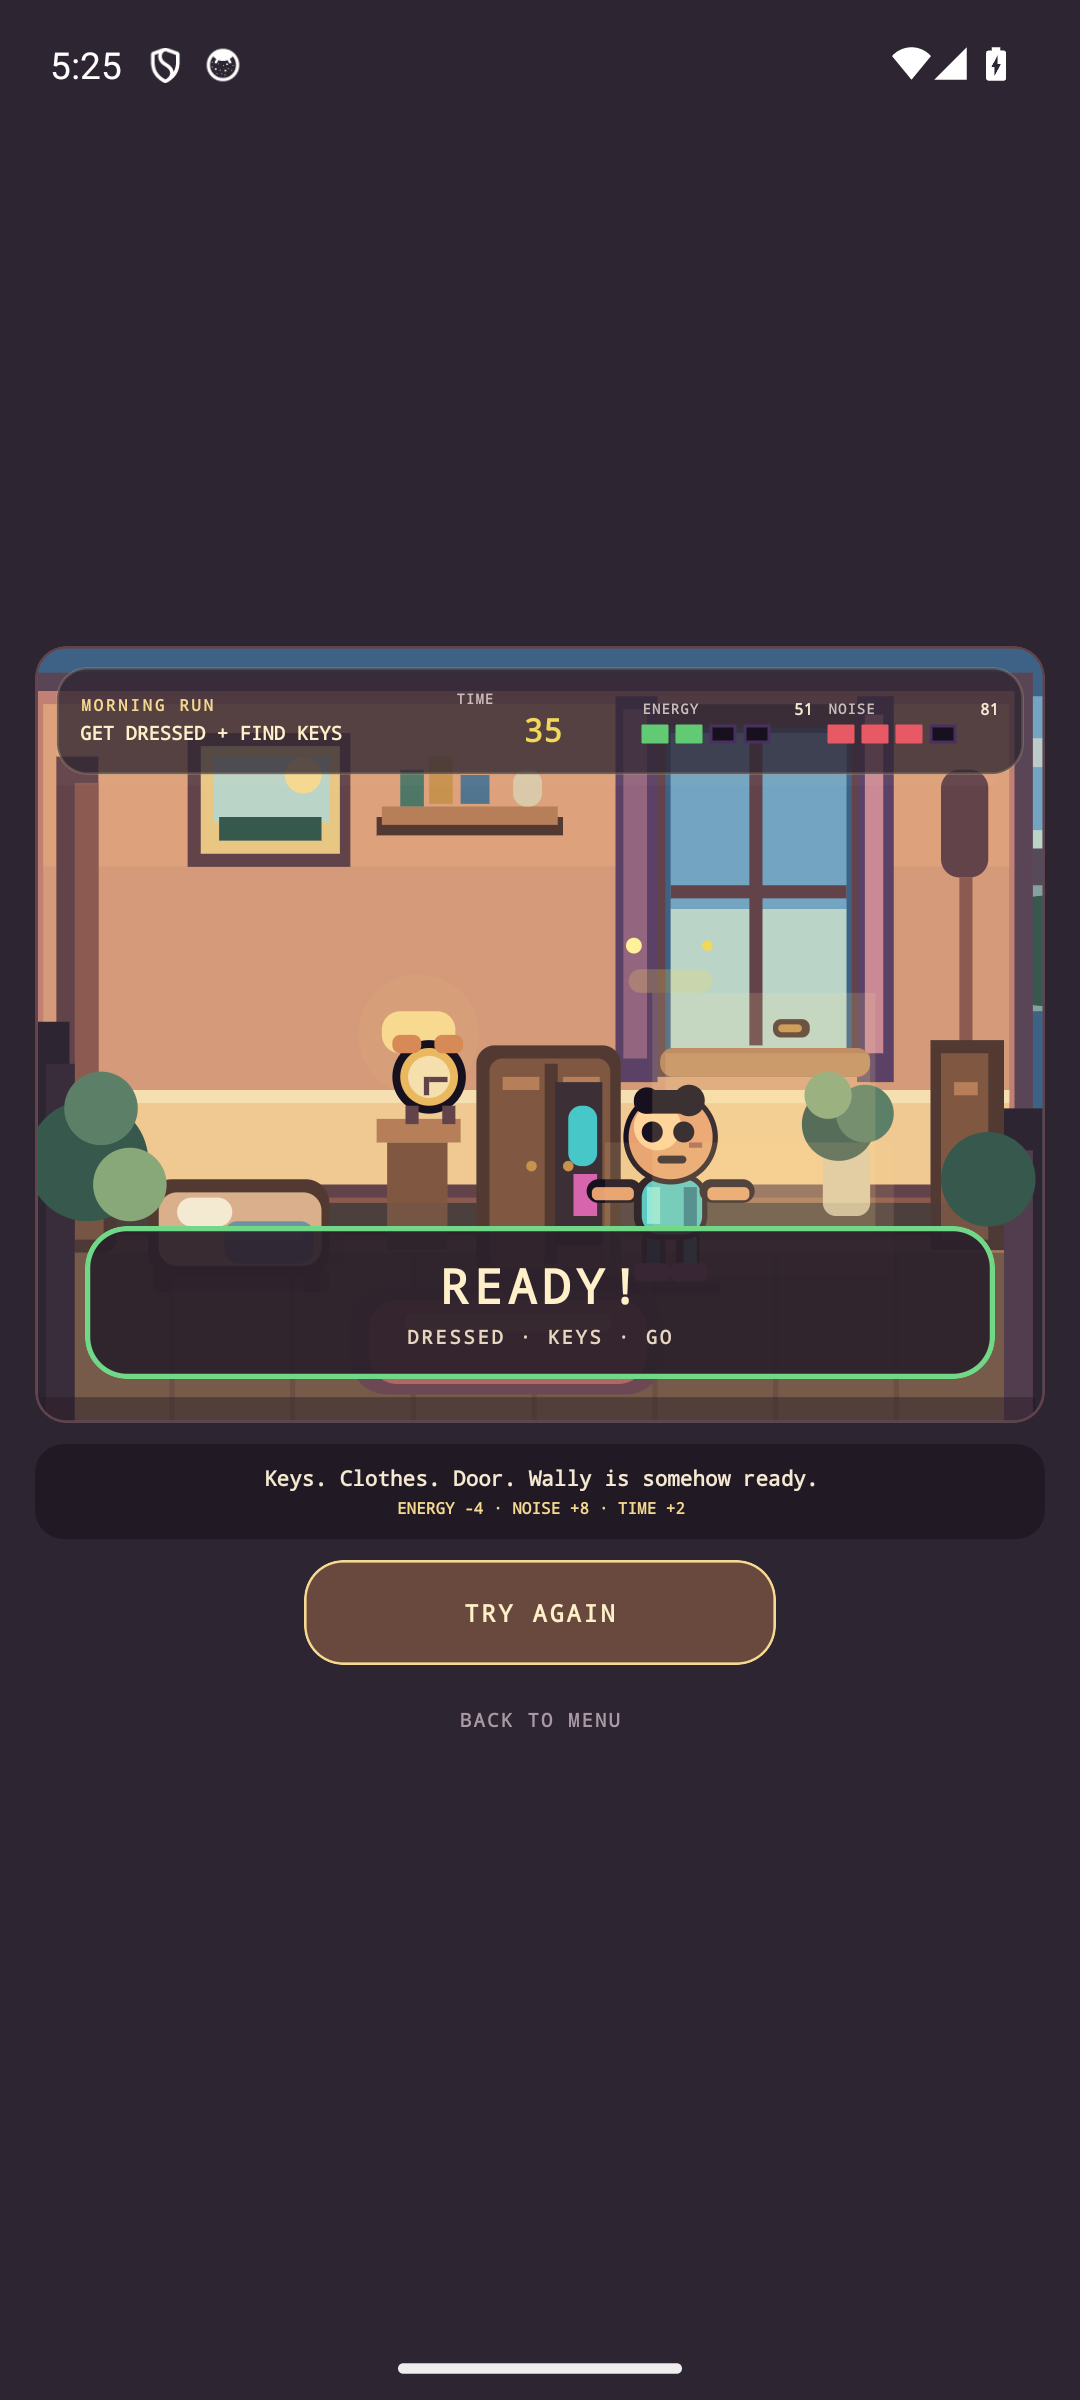
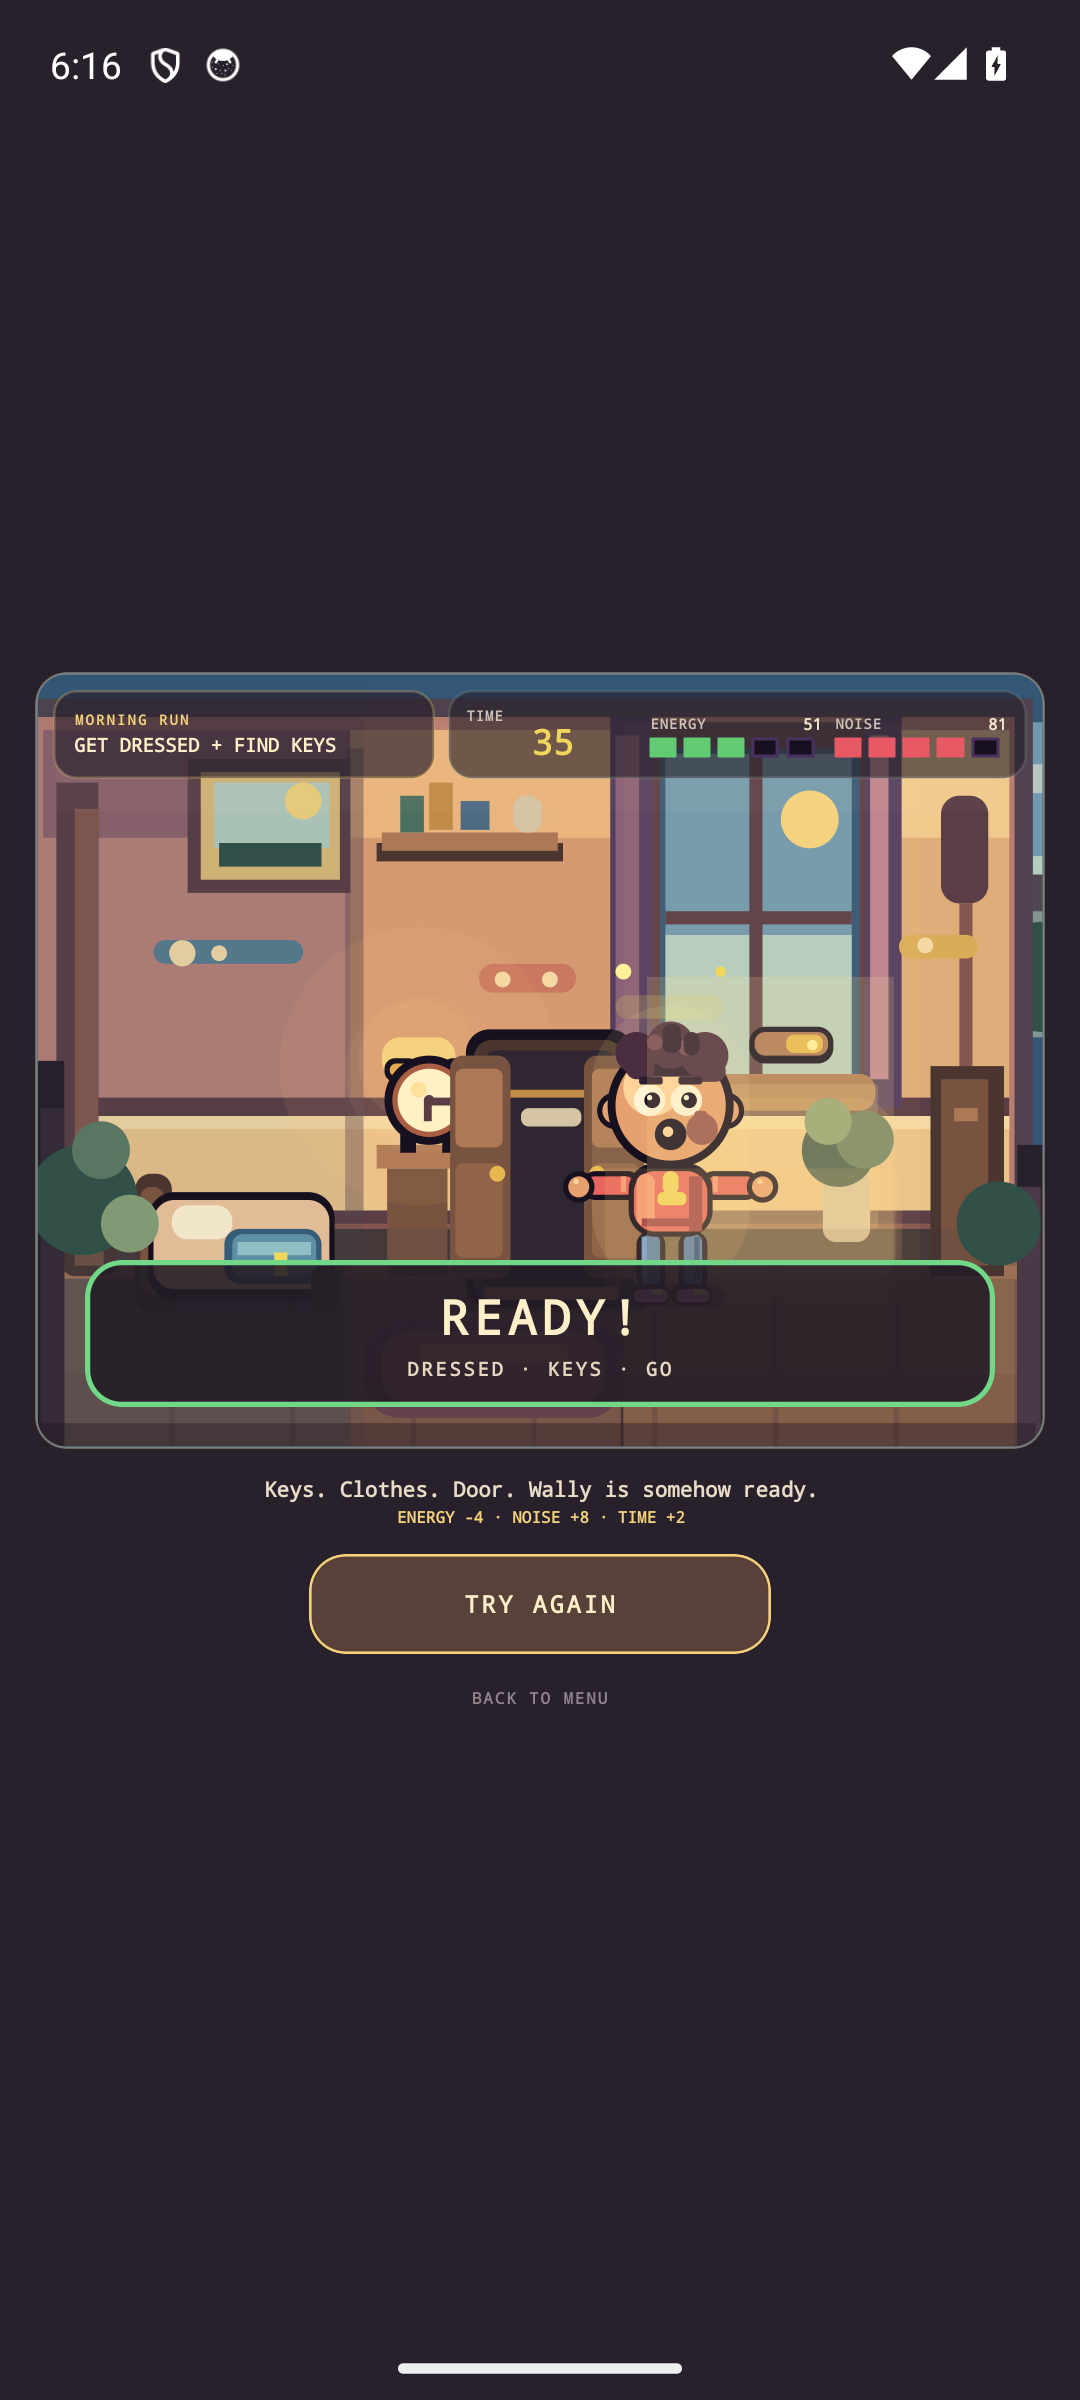
docs: refresh README screenshot gallery

Changed region(s): [[0.0306, 0.25, 0.9778, 0.7188], [0.7028, 0.6562, 0.7333, 0.6875], [0.275, 0.6562, 0.3056, 0.6875]]

diff --git a/README.md b/README.md
@@ -157,15 +157,25 @@ It covers the main menu and settings, sleepy run start, bed/slippers/alarm/wardr
 
 The generated local files are ignored evidence; rerun the command whenever the renderer changes. The GitHub execution environment does **not** claim to have performed Android visual review or performance profiling.
 
-A versioned 14-step evidence set is checked in under `docs/screenshots/` so the branch can be reviewed between full Maestro runs. **Those checked-in images are a visual checkpoint, not proof that the current HEAD has been recaptured.** After a substantial gameplay-render pass, run the tour again before making aesthetic or performance claims about the latest code.
+A curated six-shot gallery is checked in under `docs/screenshots/`, selected from the latest generated tour to show the game's strongest beats without repeating near-identical states. It remains a visual checkpoint: after a substantial renderer change, run the tour again before making aesthetic or performance claims about the new code.
 
-### Android tour samples
+### A morning in Pyjamada
+
+From the mission briefing to a barely controlled escape, the room turns every small choice into a visible consequence.
 
 <p align="center">
-  <img src="docs/screenshots/03_run_start_sleepy.png" alt="Sleepy run start Android evidence checkpoint" width="30%" />
-  <img src="docs/screenshots/09_success.png" alt="Successful Pyjamada run Android evidence checkpoint" width="30%" />
-  <img src="docs/screenshots/12_fail_house_awake.png" alt="House Awake Android evidence checkpoint" width="30%" />
+  <img src="docs/screenshots/01_main_menu.png" alt="Pyjamada main menu and morning mission" width="30%" />
+  <img src="docs/screenshots/03_run_start_sleepy.png" alt="Wally starting the morning sleepy in the bedroom" width="30%" />
+  <img src="docs/screenshots/07_startled.png" alt="Wally startled after making too much noise with the alarm" width="30%" />
 </p>
+<p align="center"><sub>Pick the mission · Wake up in the bedroom · Discover that noise has consequences</sub></p>
+
+<p align="center">
+  <img src="docs/screenshots/08_wardrobe_fumble.png" alt="Wally dressed after a clumsy wardrobe interaction" width="30%" />
+  <img src="docs/screenshots/09_success.png" alt="Successful Pyjamada run with clothes and keys" width="30%" />
+  <img src="docs/screenshots/12_fail_house_awake.png" alt="Failed Pyjamada run after waking the house" width="30%" />
+</p>
+<p align="center"><sub>Get dressed, coordination optional · Find the clean route · Or wake the whole house</sub></p>
 
 ## Useful entry points
 
